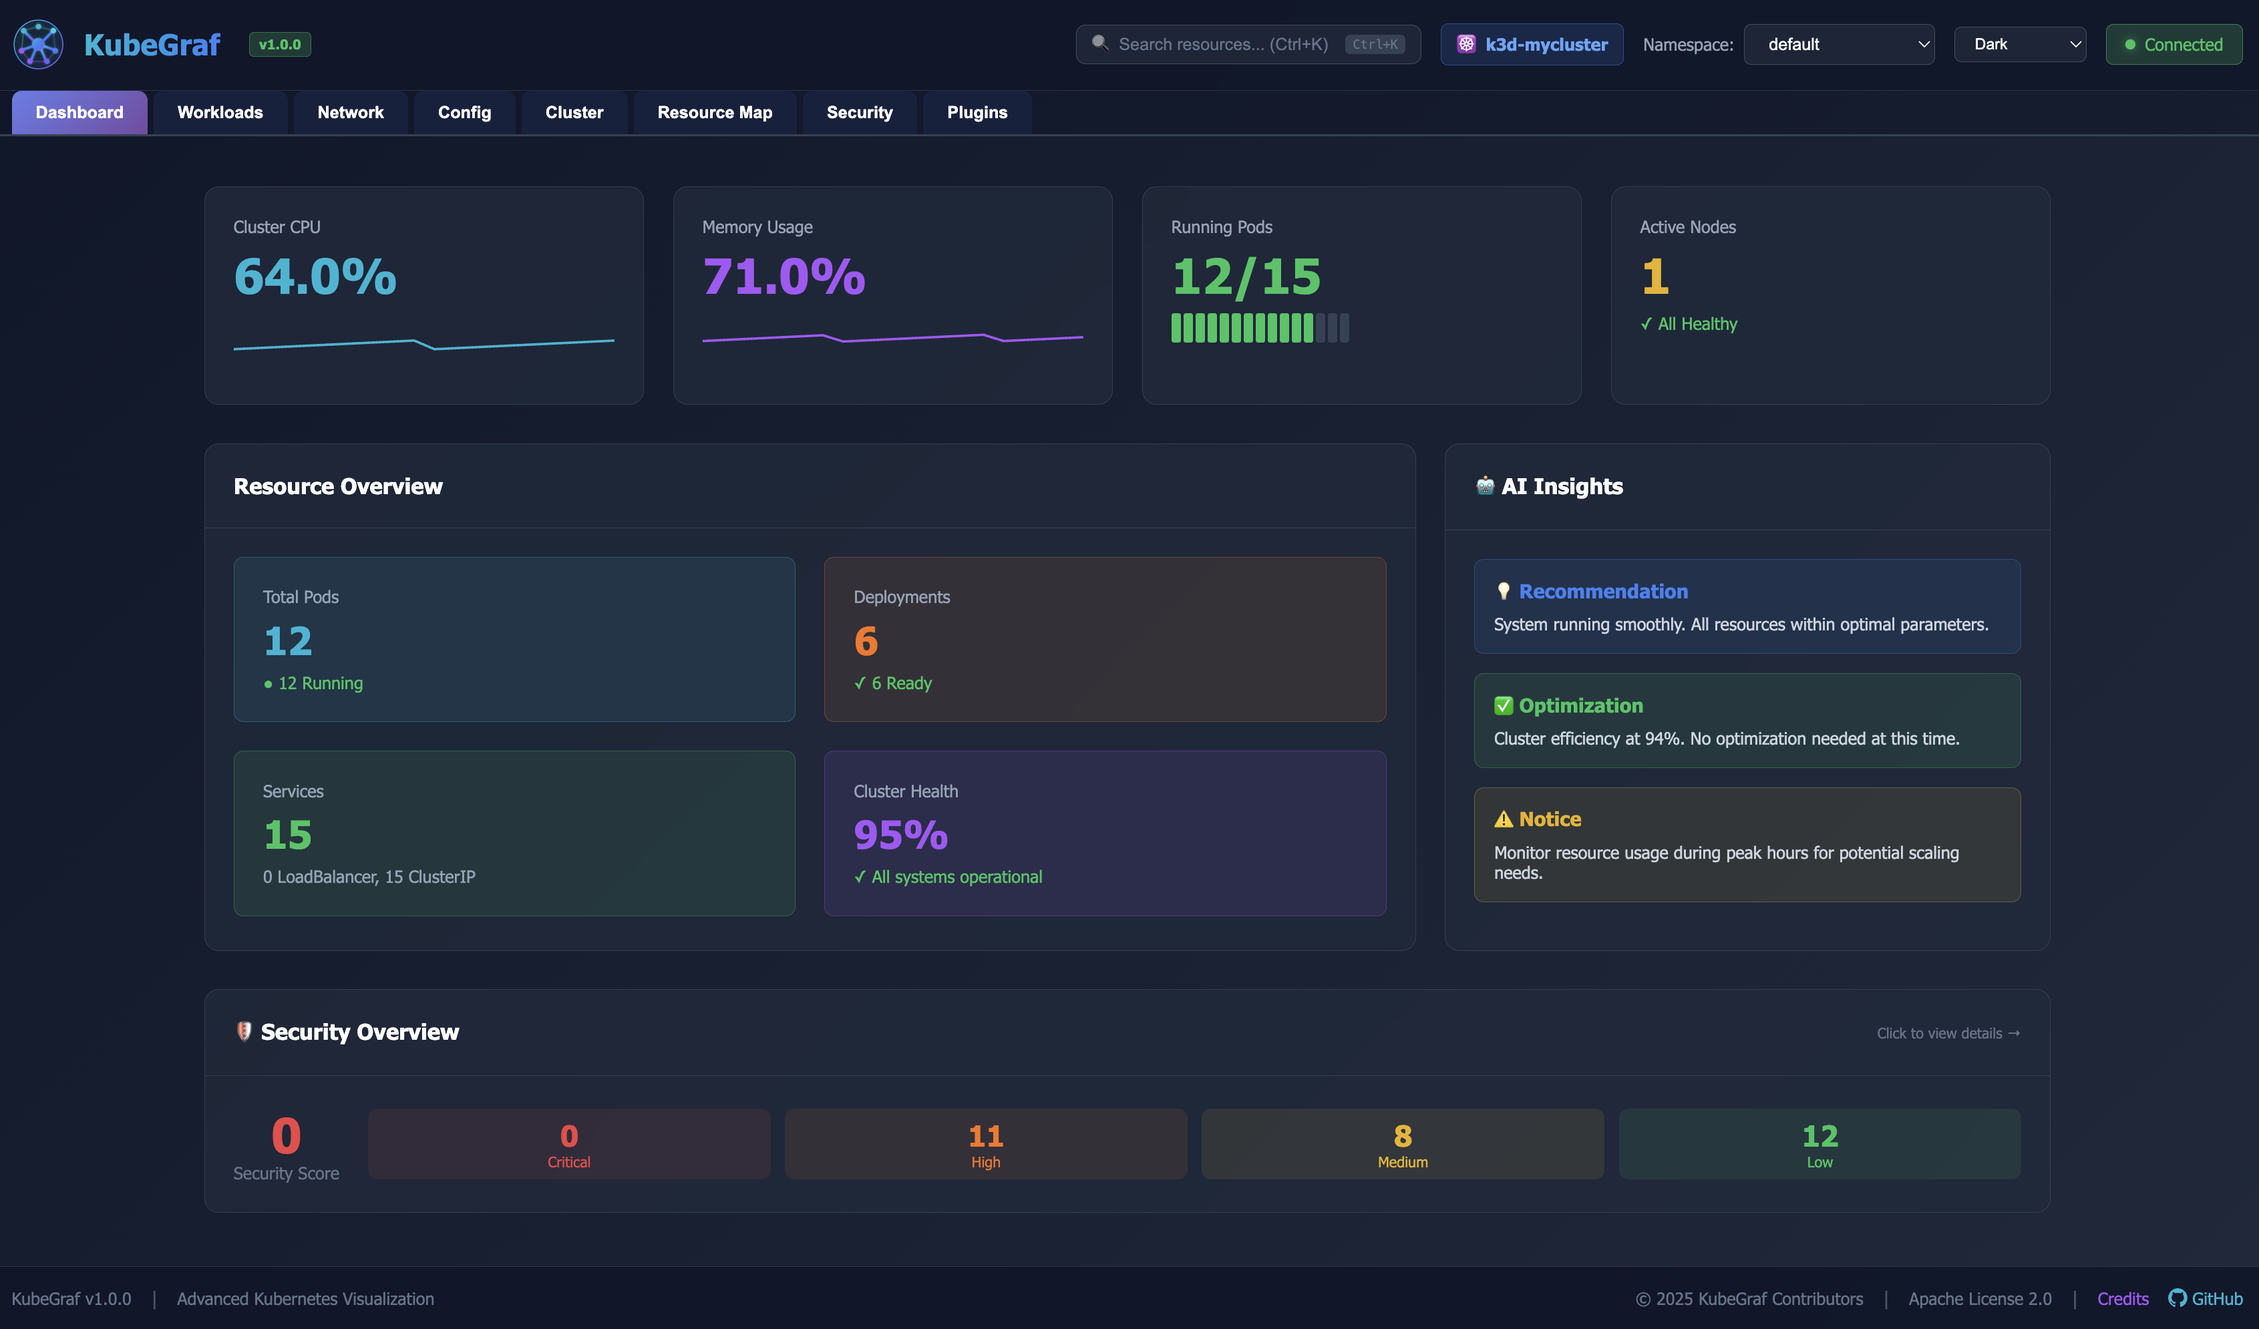
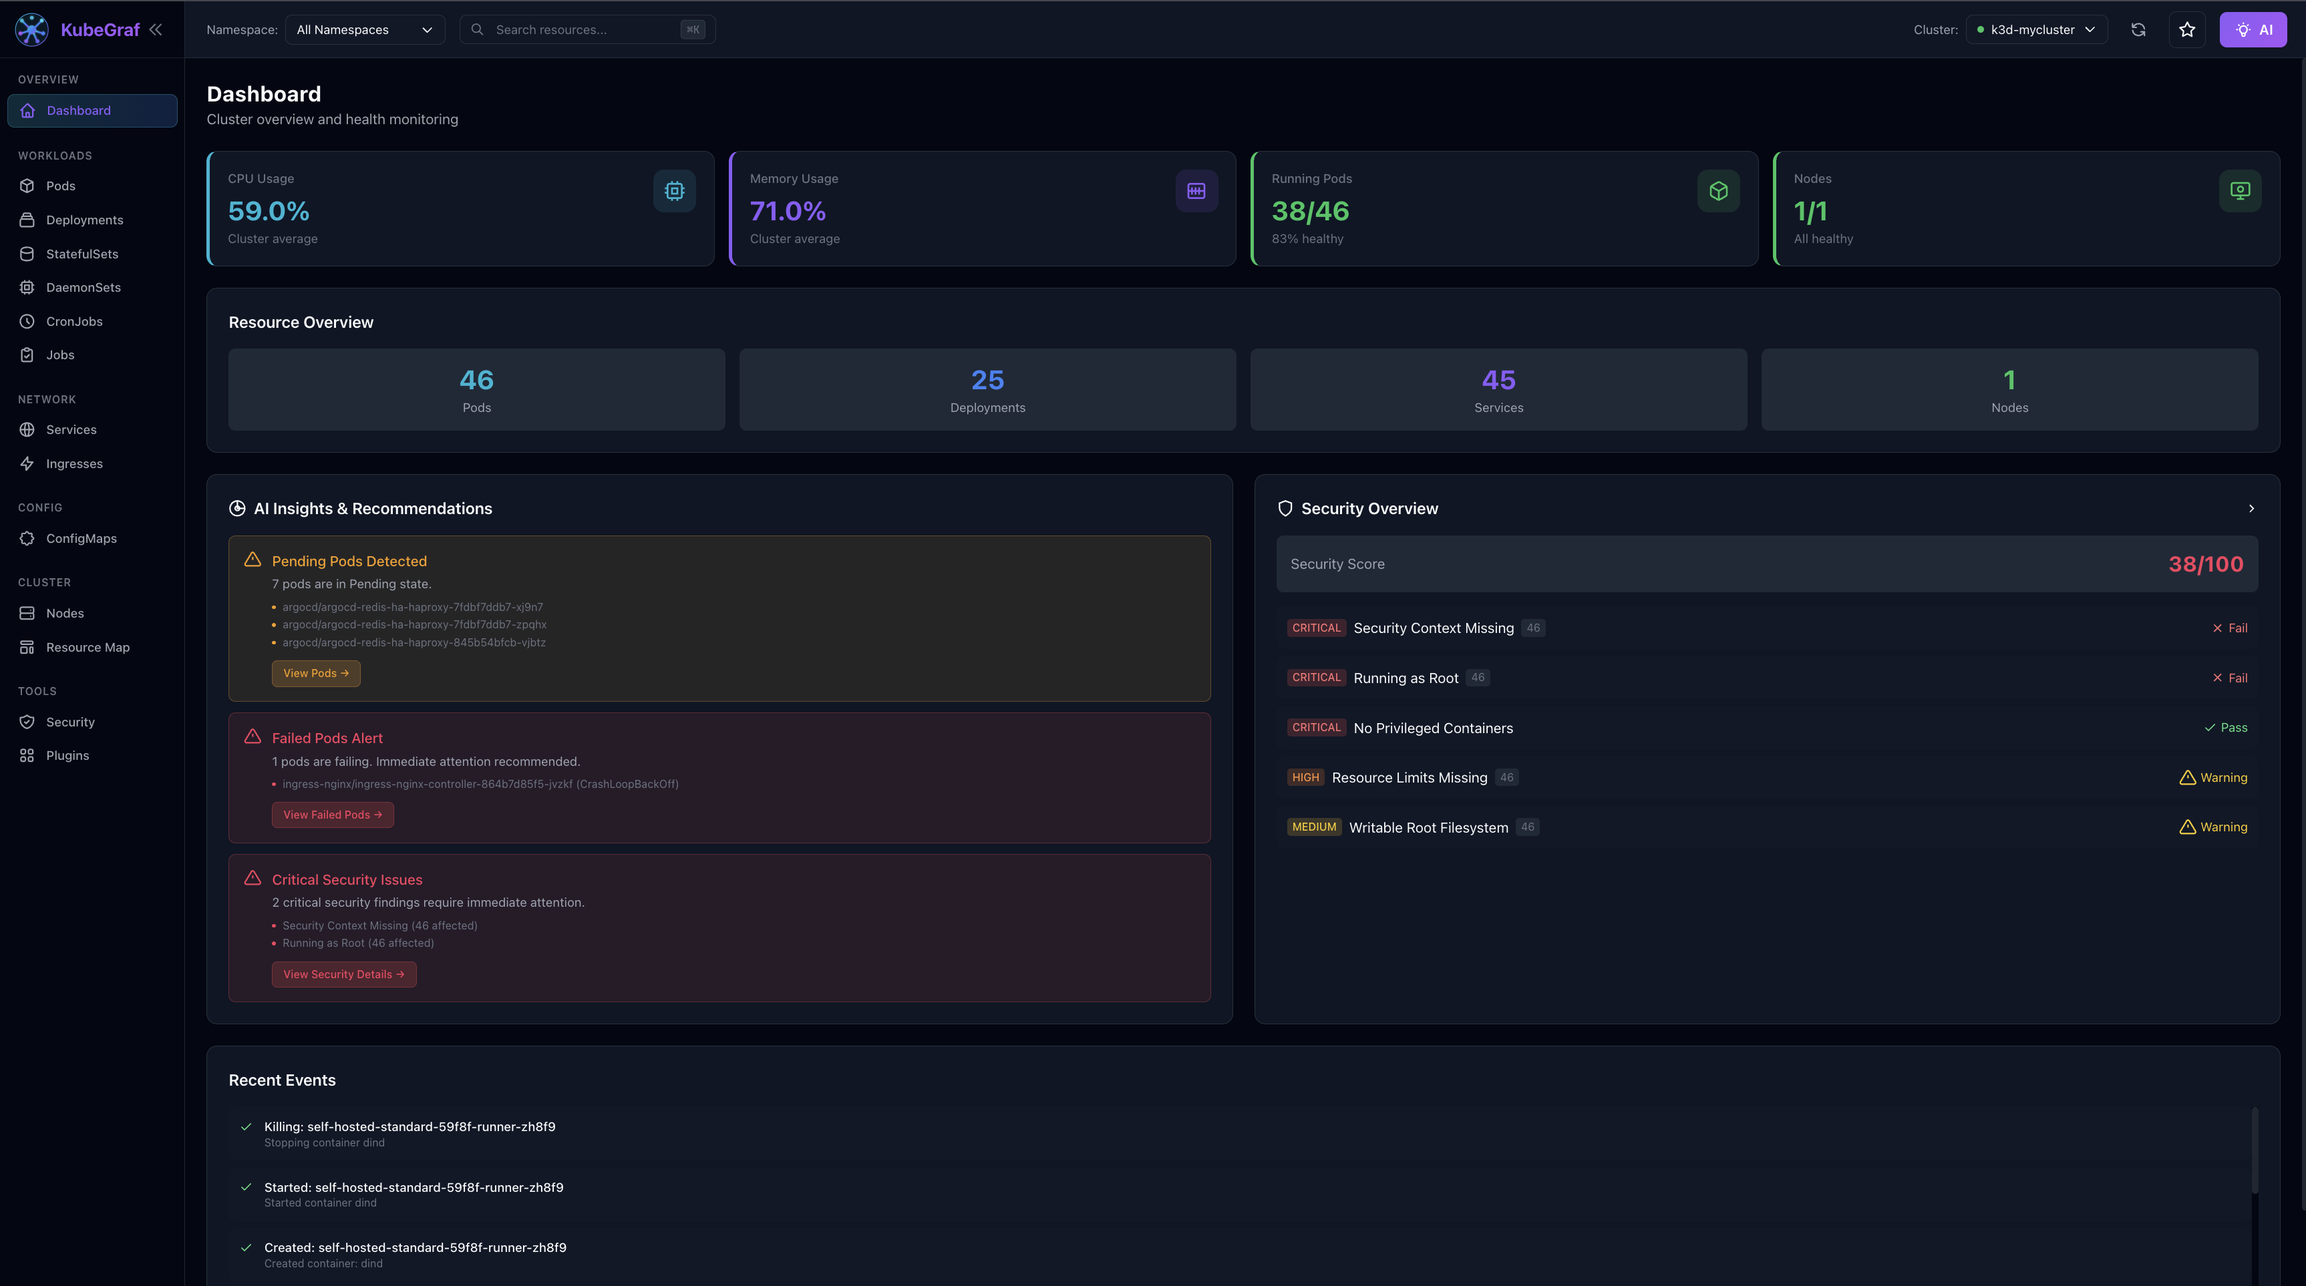
Add multi-cluster support and update dashboard screenshot
Features:
- Add cluster context selector dropdown in header (similar to namespace selector)
- Add context switching via /api/contexts/switch endpoint
- Display connection status indicators for each context
- Auto-refresh all resources when switching clusters
- Search/filter functionality for cluster contexts

Updates:
- Replace dashboard screenshot with latest SolidJS UI screenshot

🤖 Generated with [Claude Code](https://claude.com/claude-code)

diff --git a/ui/solid/src/components/Header.tsx b/ui/solid/src/components/Header.tsx
@@ -1,6 +1,6 @@
 import { Component, For, Show, createSignal, createMemo, onCleanup } from 'solid-js';
 import { Portal } from 'solid-js/web';
-import { namespace, setNamespace, namespaces, clusterStatus, refreshAll, namespacesResource } from '../stores/cluster';
+import { namespace, setNamespace, namespaces, clusterStatus, refreshAll, namespacesResource, contexts, currentContext, switchContext, contextsResource } from '../stores/cluster';
 import { toggleAIPanel, searchQuery, setSearchQuery } from '../stores/ui';
 import ThemeToggle from './ThemeToggle';
 
@@ -8,14 +8,26 @@ const Header: Component = () => {
   const [searchFocused, setSearchFocused] = createSignal(false);
   const [nsDropdownOpen, setNsDropdownOpen] = createSignal(false);
   const [nsSearch, setNsSearch] = createSignal('');
+  const [ctxDropdownOpen, setCtxDropdownOpen] = createSignal(false);
+  const [ctxSearch, setCtxSearch] = createSignal('');
+  const [switching, setSwitching] = createSignal(false);
   let nsDropdownRef: HTMLDivElement | undefined;
   let nsButtonRef: HTMLButtonElement | undefined;
+  let ctxDropdownRef: HTMLDivElement | undefined;
+  let ctxButtonRef: HTMLButtonElement | undefined;
 
   // Filtered namespaces based on search
   const filteredNamespaces = createMemo(() => {
     const search = nsSearch().toLowerCase();
     if (!search) return namespaces();
     return namespaces().filter(ns => ns.toLowerCase().includes(search));
+  });
+
+  // Filtered contexts based on search
+  const filteredContexts = createMemo(() => {
+    const search = ctxSearch().toLowerCase();
+    if (!search) return contexts();
+    return contexts().filter(ctx => ctx.name.toLowerCase().includes(search));
   });
 
   // Keyboard shortcut for search
@@ -34,6 +46,11 @@ const Header: Component = () => {
         setNsDropdownOpen(false);
         setNsSearch('');
       }
+      if (ctxDropdownOpen() && ctxDropdownRef && !ctxDropdownRef.contains(e.target as Node) &&
+          ctxButtonRef && !ctxButtonRef.contains(e.target as Node)) {
+        setCtxDropdownOpen(false);
+        setCtxSearch('');
+      }
     };
     document.addEventListener('mousedown', handleClickOutside);
     onCleanup(() => document.removeEventListener('mousedown', handleClickOutside));
@@ -43,6 +60,20 @@ const Header: Component = () => {
     setNamespace(ns);
     setNsDropdownOpen(false);
     setNsSearch('');
+  };
+
+  const selectContext = async (ctxName: string) => {
+    if (ctxName === currentContext()) return;
+    setSwitching(true);
+    try {
+      await switchContext(ctxName);
+    } catch (err) {
+      console.error('Failed to switch context:', err);
+    } finally {
+      setSwitching(false);
+      setCtxDropdownOpen(false);
+      setCtxSearch('');
+    }
   };
 
   const getDisplayName = () => {
@@ -211,16 +242,125 @@ const Header: Component = () => {
         </div>
       </div>
 
-      {/* Right side - Status and actions */}
+      {/* Right side - Cluster selector, Status and actions */}
       <div class="flex items-center gap-4">
-        {/* Connection status */}
-        <div class="flex items-center gap-3 text-sm">
-          <div class="flex items-center gap-2">
-            <span class={`status-dot ${clusterStatus().connected ? 'connected' : 'disconnected'}`}></span>
-            <span style={{ color: clusterStatus().connected ? 'var(--success-color)' : 'var(--text-muted)' }}>
-              {clusterStatus().connected ? clusterStatus().context : 'Not connected'}
-            </span>
-          </div>
+        {/* Cluster/Context selector */}
+        <div class="flex items-center gap-2 relative">
+          <label class="text-sm" style={{ color: 'var(--text-secondary)' }}>Cluster:</label>
+          <button
+            ref={ctxButtonRef}
+            onClick={() => setCtxDropdownOpen(!ctxDropdownOpen())}
+            disabled={switching()}
+            class="flex items-center gap-2 rounded-lg px-3 py-1.5 text-sm min-w-[160px] justify-between"
+            style={{
+              background: 'var(--bg-secondary)',
+              color: 'var(--text-primary)',
+              border: '1px solid var(--border-color)',
+              opacity: switching() ? 0.7 : 1,
+            }}
+          >
+            <div class="flex items-center gap-2">
+              <span class={`w-2 h-2 rounded-full ${clusterStatus().connected ? 'bg-green-500' : 'bg-red-500'}`}></span>
+              <span class="truncate">{switching() ? 'Switching...' : (currentContext() || 'Select cluster')}</span>
+            </div>
+            <svg class={`w-4 h-4 transition-transform ${ctxDropdownOpen() ? 'rotate-180' : ''}`} fill="none" stroke="currentColor" viewBox="0 0 24 24">
+              <path stroke-linecap="round" stroke-linejoin="round" stroke-width="2" d="M19 9l-7 7-7-7" />
+            </svg>
+          </button>
+
+          {/* Context Dropdown */}
+          <Show when={ctxDropdownOpen()}>
+            <div
+              ref={ctxDropdownRef}
+              class="absolute top-full right-0 mt-1 w-72 rounded-lg shadow-xl z-[200] overflow-hidden"
+              style={{
+                background: 'var(--bg-card)',
+                border: '1px solid var(--border-color)',
+              }}
+            >
+              {/* Search input */}
+              <div class="p-2 border-b" style={{ 'border-color': 'var(--border-color)' }}>
+                <div class="relative">
+                  <svg
+                    class="absolute left-2.5 top-1/2 -translate-y-1/2 w-4 h-4"
+                    style={{ color: 'var(--text-muted)' }}
+                    fill="none"
+                    stroke="currentColor"
+                    viewBox="0 0 24 24"
+                  >
+                    <path stroke-linecap="round" stroke-linejoin="round" stroke-width="2" d="M21 21l-6-6m2-5a7 7 0 11-14 0 7 7 0 0114 0z" />
+                  </svg>
+                  <input
+                    type="text"
+                    placeholder="Search clusters..."
+                    value={ctxSearch()}
+                    onInput={(e) => setCtxSearch(e.target.value)}
+                    class="w-full rounded-md pl-8 pr-3 py-1.5 text-sm"
+                    style={{
+                      background: 'var(--bg-tertiary)',
+                      color: 'var(--text-primary)',
+                      border: '1px solid var(--border-color)',
+                    }}
+                    autofocus
+                  />
+                </div>
+              </div>
+
+              {/* Context list */}
+              <div class="max-h-64 overflow-y-auto">
+                <Show when={!contextsResource.loading} fallback={
+                  <div class="px-3 py-2 text-sm" style={{ color: 'var(--text-muted)' }}>Loading clusters...</div>
+                }>
+                  <For each={filteredContexts()}>
+                    {(ctx) => (
+                      <button
+                        onClick={() => selectContext(ctx.name)}
+                        class="w-full px-3 py-2 text-sm text-left flex items-center gap-2 transition-colors"
+                        style={{
+                          background: ctx.isCurrent ? 'var(--bg-tertiary)' : 'transparent',
+                          color: ctx.isCurrent ? 'var(--accent-primary)' : 'var(--text-primary)',
+                        }}
+                        onMouseEnter={(e) => e.currentTarget.style.background = 'var(--bg-tertiary)'}
+                        onMouseLeave={(e) => e.currentTarget.style.background = ctx.isCurrent ? 'var(--bg-tertiary)' : 'transparent'}
+                      >
+                        <span class={`w-2 h-2 rounded-full flex-shrink-0 ${ctx.connected ? 'bg-green-500' : 'bg-red-500'}`}></span>
+                        <div class="flex-1 min-w-0">
+                          <span class="truncate block">{ctx.name}</span>
+                          <Show when={ctx.serverVersion}>
+                            <span class="text-xs" style={{ color: 'var(--text-muted)' }}>{ctx.serverVersion}</span>
+                          </Show>
+                        </div>
+                        <Show when={ctx.isCurrent}>
+                          <svg class="w-4 h-4 flex-shrink-0" fill="currentColor" viewBox="0 0 20 20">
+                            <path fill-rule="evenodd" d="M16.707 5.293a1 1 0 010 1.414l-8 8a1 1 0 01-1.414 0l-4-4a1 1 0 011.414-1.414L8 12.586l7.293-7.293a1 1 0 011.414 0z" clip-rule="evenodd" />
+                          </svg>
+                        </Show>
+                      </button>
+                    )}
+                  </For>
+                </Show>
+
+                {/* No results */}
+                <Show when={ctxSearch() && filteredContexts().length === 0}>
+                  <div class="px-3 py-4 text-sm text-center" style={{ color: 'var(--text-muted)' }}>
+                    No clusters found
+                  </div>
+                </Show>
+
+                {/* Empty state */}
+                <Show when={!contextsResource.loading && contexts().length === 0}>
+                  <div class="px-3 py-4 text-sm text-center" style={{ color: 'var(--text-muted)' }}>
+                    No clusters available
+                  </div>
+                </Show>
+              </div>
+
+              {/* Footer with count */}
+              <div class="px-3 py-2 text-xs border-t" style={{ 'border-color': 'var(--border-color)', color: 'var(--text-muted)' }}>
+                {contexts().length} cluster{contexts().length !== 1 ? 's' : ''} available
+              </div>
+            </div>
+          </Show>
         </div>
 
         {/* Refresh button */}

diff --git a/ui/solid/src/stores/cluster.ts b/ui/solid/src/stores/cluster.ts
@@ -1,6 +1,14 @@
 import { createSignal, createResource, createEffect } from 'solid-js';
+import { api } from '../services/api';
 
 // Types
+export interface ClusterContext {
+  name: string;
+  connected: boolean;
+  serverVersion?: string;
+  isCurrent: boolean;
+}
+
 export interface Pod {
   name: string;
   namespace: string;
@@ -55,6 +63,8 @@ export interface ClusterStatus {
 // Reactive signals with fine-grained updates
 const [namespace, setNamespace] = createSignal<string>('_all');
 const [namespaces, setNamespaces] = createSignal<string[]>(['default']);
+const [contexts, setContexts] = createSignal<ClusterContext[]>([]);
+const [currentContext, setCurrentContext] = createSignal<string>('');
 const [clusterStatus, setClusterStatus] = createSignal<ClusterStatus>({
   connected: false,
   context: '',
@@ -123,6 +133,40 @@ async function fetchClusterStatus(): Promise<ClusterStatus> {
   };
 }
 
+async function fetchContexts(): Promise<ClusterContext[]> {
+  const res = await fetch('/api/contexts');
+  if (!res.ok) throw new Error('Failed to fetch contexts');
+  const data = await res.json();
+  return data.contexts || [];
+}
+
+// Switch context and refresh all data
+async function switchContext(contextName: string): Promise<void> {
+  const res = await fetch('/api/contexts/switch', {
+    method: 'POST',
+    headers: { 'Content-Type': 'application/json' },
+    body: JSON.stringify({ context: contextName }),
+  });
+  if (!res.ok) throw new Error('Failed to switch context');
+
+  // Update current context
+  setCurrentContext(contextName);
+
+  // Refresh all data for the new context
+  refreshAll();
+
+  // Refetch contexts to update isCurrent flags
+  const ctxData = await fetchContexts();
+  setContexts(ctxData);
+
+  // Refetch namespaces for new cluster
+  const nsRes = await fetch('/api/namespaces');
+  if (nsRes.ok) {
+    const nsData = await nsRes.json();
+    setNamespaces(nsData.namespaces || []);
+  }
+}
+
 // Create resources with fine-grained reactivity
 const [namespacesResource] = createResource(fetchNamespaces);
 const [podsResource, { refetch: refetchPods }] = createResource(namespace, fetchPods);
@@ -130,6 +174,7 @@ const [deploymentsResource, { refetch: refetchDeployments }] = createResource(na
 const [servicesResource, { refetch: refetchServices }] = createResource(namespace, fetchServices);
 const [nodesResource, { refetch: refetchNodes }] = createResource(fetchNodes);
 const [statusResource, { refetch: refetchStatus }] = createResource(fetchClusterStatus);
+const [contextsResource, { refetch: refetchContexts }] = createResource(fetchContexts);
 
 // Update namespaces when resource loads
 createEffect(() => {
@@ -141,7 +186,17 @@ createEffect(() => {
 createEffect(() => {
   const status = statusResource();
   console.log('Status resource loaded:', status);
-  if (status) setClusterStatus(status);
+  if (status) {
+    setClusterStatus(status);
+    setCurrentContext(status.context);
+  }
+});
+
+// Update contexts when resource loads
+createEffect(() => {
+  const ctx = contextsResource();
+  console.log('Contexts resource loaded:', ctx);
+  if (ctx) setContexts(ctx);
 });
 
 // Log any errors
@@ -166,6 +221,10 @@ export {
   setNamespace,
   namespaces,
   clusterStatus,
+  contexts,
+  currentContext,
+  switchContext,
+  contextsResource,
   podsResource,
   deploymentsResource,
   servicesResource,
@@ -178,4 +237,7 @@ export {
   refetchServices,
   refetchNodes,
   refetchStatus,
+  refetchContexts,
 };
+
+export type { ClusterContext };

diff --git a/docs/index.html b/docs/index.html
@@ -1465,7 +1465,7 @@
     <section id="features" class="features">
         <div class="container">
             <div class="section-header">
-                <h2>Built for Kubernetes Engineers</h2>
+                <h2>Built for Everyone Working with Kubernetes</h2>
                 <p>Three interfaces, one powerful tool. Choose what works best for your workflow.</p>
             </div>
 
@@ -2088,16 +2088,23 @@
             };
 
             const demo = demos[type];
-            document.getElementById('demo-display').innerHTML = `
-                <div class="demo-placeholder" style="text-align: left; padding: 3rem;">
-                    <h3 style="font-size: 1.5rem; margin-bottom: 0.5rem; color: var(--light);">${demo.title}</h3>
-                    <p style="color: var(--gray); margin-bottom: 1.5rem;">${demo.desc}</p>
-                    <ul style="list-style: none;">
-                        ${demo.features.map(f => `<li style="padding: 0.5rem 0; color: var(--light); display: flex; align-items: center; gap: 0.75rem;"><span style="color: var(--secondary);">✓</span>${f}</li>`).join('')}
-                    </ul>
-                    ${type === 'solid' ? '<div style="margin-top: 1.5rem;"><a href="getting-started.html#solid-ui" class="btn btn-primary" style="font-size: 0.875rem; padding: 0.5rem 1rem;">Get Started with Solid.js UI →</a></div>' : ''}
-                </div>
-            `;
+
+            // Show screenshot for web dashboard and solid.js UI
+            if (type === 'web' || type === 'solid') {
+                document.getElementById('demo-display').innerHTML = `
+                    <img src="dashboard-screenshot.png" alt="KubeGraf ${demo.title}" style="max-width: 100%; border-radius: 12px; box-shadow: 0 25px 50px -12px rgba(0, 0, 0, 0.5); border: 1px solid rgba(255, 255, 255, 0.1);">
+                `;
+            } else {
+                document.getElementById('demo-display').innerHTML = `
+                    <div class="demo-placeholder" style="text-align: left; padding: 3rem;">
+                        <h3 style="font-size: 1.5rem; margin-bottom: 0.5rem; color: var(--light);">${demo.title}</h3>
+                        <p style="color: var(--gray); margin-bottom: 1.5rem;">${demo.desc}</p>
+                        <ul style="list-style: none;">
+                            ${demo.features.map(f => `<li style="padding: 0.5rem 0; color: var(--light); display: flex; align-items: center; gap: 0.75rem;"><span style="color: var(--secondary);">✓</span>${f}</li>`).join('')}
+                        </ul>
+                    </div>
+                `;
+            }
         }
 
         // Smooth scroll for anchor links
